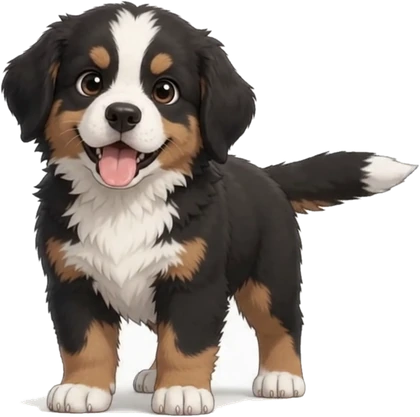
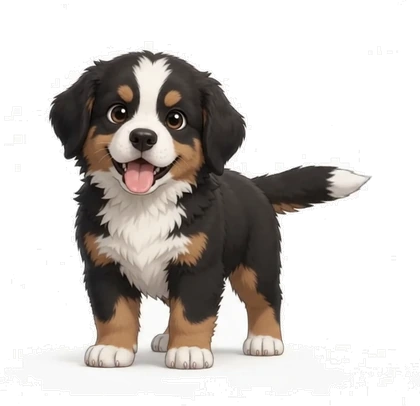
Use the new Bernese art in minigames without stretching.

diff --git a/bernese/index.html b/bernese/index.html
@@ -489,6 +489,10 @@ const IW=360,IH=360;
 const PUP_SHUT='anim/pup_shut.webp';
 const PC_PUP='anim/pc_pup.webp';
 const PC_PUP_IMG=new Image();PC_PUP_IMG.src=PC_PUP;
+function pupAR(img){const i=img||PUP_IMG;return (i&&i.naturalWidth&&i.naturalHeight)?i.naturalWidth/i.naturalHeight:IW/IH;}
+function pupWH(h,img){const ar=pupAR(img);return[h*ar,h];}
+function pupFeet(c,img,cx,by,h,o){const[w]=pupWH(h,img);pupDraw(c,img,cx-w/2,by-h,w,h,o);}
+function pupMid(c,img,cx,cy,h,o){const[w]=pupWH(h,img);pupDraw(c,img,cx-w/2,cy-h/2,w,h,o);}
 function dogSVG(stage,mood='neutral'){
   
   const H=210,W=H*IW/IH,x=(200-W)/2,y=0;
@@ -518,7 +522,7 @@ function walkFrame(moving){
 function drawSideDog(x,gy,K,face,frame,jy=0){
   const im=WALK_FRAMES[((frame%WALK_FRAMES.length)+WALK_FRAMES.length)%WALK_FRAMES.length];
   const ready=im&&im.complete&&im.naturalWidth;
-  const dw=(ready?96:62)*K, dh=ready?dw*(im.naturalHeight/im.naturalWidth):84*K;
+  const dw=(ready?96:72)*K, dh=ready?dw*(im.naturalHeight/im.naturalWidth):dw/pupAR(G&&G.img);
   ctx.save();
   ctx.translate(x, gy+jy);
   // sprites face left; face>0 means walking right → flip
@@ -829,14 +833,15 @@ function draw(){
       else emoji(it.t==='sun'?'☀':'🦴',it.x,it.y,34);
     });
     if(G.img.complete&&!(G.inv>0&&Math.floor(G.t*12)%2)){
-      ctx.save();ctx.translate(d.x,d.y);ctx.rotate(clamp(d.vy/1100,-.35,.45));pupDraw(ctx,G.img,-31,-44,62,84);ctx.restore();
+      const[pw,ph]=pupWH(72,G.img);
+      ctx.save();ctx.translate(d.x,d.y);ctx.rotate(clamp(d.vy/1100,-.35,.45));pupDraw(ctx,G.img,-pw/2,-ph/2,pw,ph);ctx.restore();
     }
   }else{
     ctx.fillStyle=getComputedStyle(document.body).backgroundColor;ctx.fillRect(0,0,W,H);
     ctx.fillStyle='#adc0b9';[[.12,.1,9],[.8,.18,6],[.45,.32,11],[.2,.55,6],[.88,.6,10],[.6,.78,7]].forEach(([px,py,r])=>{const x=px*W,y=py*H;ctx.beginPath();ctx.moveTo(x,y-r);ctx.quadraticCurveTo(x+r*.12,y-r*.12,x+r,y);ctx.quadraticCurveTo(x+r*.12,y+r*.12,x,y+r);ctx.quadraticCurveTo(x-r*.12,y+r*.12,x-r,y);ctx.quadraticCurveTo(x-r*.12,y-r*.12,x,y-r);ctx.fill();});
     ctx.fillStyle='#f2faf6';ctx.fillRect(0,H-22,W,22);
     G.items.forEach(it=>emoji(it.t,it.x,it.y,34));
-    if(G.img.complete){pupDraw(ctx,G.img,d.x-40,d.y-66,80,108);}
+    if(G.img.complete)pupFeet(ctx,G.img,d.x,d.y+8,96);
   }
   G.fx.forEach(f=>{ctx.globalAlpha=1-f.t/.8;ctx.font='bold 22px -apple-system,"PingFang SC",sans-serif';ctx.fillStyle='#df63a0';ctx.textAlign='center';ctx.fillText(f.s,f.x,f.y-f.t*50);ctx.globalAlpha=1;});
 }
@@ -951,7 +956,7 @@ function drawCart(){
     ctx.fillStyle='#c98a5a';ctx.strokeStyle='#8a5a35';ctx.lineWidth=2;ctx.beginPath();ctx.roundRect(d.x-34,cy-24,68,46,8);ctx.fill();ctx.stroke();
     ctx.strokeStyle='rgba(138,90,53,.45)';ctx.beginPath();ctx.moveTo(d.x-34,cy-1);ctx.lineTo(d.x+34,cy-1);ctx.stroke();
     const n=Math.min(G.load,6);for(let i=0;i<n;i++)emoji(i%2?'🥛':'🧀',d.x-20+(i%3)*20,cy-10+Math.floor(i/3)*20,17);
-    if(G.img.complete){pupDraw(ctx,G.img,d.x-31,d.y-42+bob,62,84);}
+    if(G.img.complete)pupFeet(ctx,G.img,d.x,d.y+8+bob,78);
   }
 }
 
@@ -1129,7 +1134,7 @@ function canvasXY(e){const r=cv.getBoundingClientRect();return[e.clientX-r.left,
   const m=G&&!G.over&&MODES[G.type],fn=m&&m[{pointerdown:'down',pointermove:'move',pointerup:'up'}[t]];
   if(fn)fn.call(m,e,...canvasXY(e));
 }));
-function drawDog(x,y,K,rot=0,alpha=1){if(!G.img.complete)return;ctx.save();ctx.globalAlpha=alpha;ctx.translate(x,y);if(rot)ctx.rotate(rot);pupDraw(ctx,G.img,-31*K,-42*K,62*K,84*K);ctx.restore();}
+function drawDog(x,y,K,rot=0,alpha=1){if(!G.img.complete)return;const[pw,ph]=pupWH(72*K,G.img);ctx.save();ctx.globalAlpha=alpha;ctx.translate(x,y);if(rot)ctx.rotate(rot);pupDraw(ctx,G.img,-pw/2,-ph/2,pw,ph);ctx.restore();}
 
 /* 雪地打滚 */
 MODES.snow={
@@ -1407,8 +1412,8 @@ MODES.match={
     const {W,H,cs,bx,by,C,R}=G;
     ctx.fillStyle='#c4dbd4';ctx.fillRect(0,0,W,H);
     ctx.fillStyle='#adc0b9';[[.1,.08,7],[.86,.14,9],[.62,.04,5],[.3,.2,5]].forEach(([px,py,r])=>{const x=px*W,y=py*H;ctx.beginPath();ctx.moveTo(x,y-r);ctx.quadraticCurveTo(x,y,x+r,y);ctx.quadraticCurveTo(x,y,x,y+r);ctx.quadraticCurveTo(x,y,x-r,y);ctx.quadraticCurveTo(x,y,x,y-r);ctx.fill();});
-    const dh=clamp(by-28,60,130),dw=dh*62/84,hop=G.bounce?Math.sin((.6-G.bounce)/.6*Math.PI*2)*-12:0;
-    if(G.img.complete){ctx.fillStyle='rgba(0,0,0,.1)';ctx.beginPath();ctx.ellipse(W*.32,by-14,dw*.42,5,0,0,7);ctx.fill();pupDraw(ctx,G.img,W*.32-dw/2,by-14-dh+hop,dw,dh);}
+    const dh=clamp(by-28,60,130),[dw]=pupWH(dh,G.img),hop=G.bounce?Math.sin((.6-G.bounce)/.6*Math.PI*2)*-12:0;
+    if(G.img.complete){ctx.fillStyle='rgba(0,0,0,.1)';ctx.beginPath();ctx.ellipse(W*.32,by-14,dw*.42,5,0,0,7);ctx.fill();pupFeet(ctx,G.img,W*.32,by-14+hop,dh);}
     if(G.talkT>0){ctx.globalAlpha=Math.min(1,G.talkT*3);ctx.font='bold 14px -apple-system,"PingFang SC",sans-serif';const tw=Math.min(W*.5,ctx.measureText(G.talk).width+24),tx=W*.32+dw/2+8,ty=by-14-dh*.75;
       ctx.fillStyle='#f2faf6';ctx.strokeStyle='#bbe0cf';ctx.lineWidth=2;ctx.beginPath();ctx.roundRect(tx,ty,tw,32,14);ctx.fill();ctx.stroke();ctx.fillStyle='#2c2c2c';ctx.textAlign='left';ctx.textBaseline='middle';ctx.fillText(G.talk,tx+12,ty+16,tw-20);ctx.globalAlpha=1;}
     ctx.fillStyle='#fff';ctx.beginPath();ctx.roundRect(bx-8,by-8,cs*C+16,cs*R+16,22);ctx.fill();
@@ -1420,7 +1425,7 @@ MODES.match={
       const sc=x0.sc*(sel?1.08+Math.sin(G.t*8)*.04:1);
       if(sel){ctx.strokeStyle='#de64a1';ctx.lineWidth=3;ctx.beginPath();ctx.roundRect(bx+c*cs+3,by+r*cs+3,cs-6,cs-6,10);ctx.stroke();}
       if(x0.t===-1){const gr=ctx.createRadialGradient(x,y,0,x,y,cs*.55);gr.addColorStop(0,'rgba(222,100,161,.35)');gr.addColorStop(1,'rgba(222,100,161,0)');ctx.fillStyle=gr;ctx.beginPath();ctx.arc(x,y,cs*.55,0,7);ctx.fill();
-        if(G.img.complete){const h=cs*.82*sc,w=h*62/84;pupDraw(ctx,G.img,x-w/2,y-h/2,w,h);}}
+        if(G.img.complete)pupMid(ctx,G.img,x,y,cs*.82*sc);}
       else if(sc>0)emoji(MPIECES[x0.t],x,y,cs*.6*sc);
     }
     ctx.restore();
@@ -1456,7 +1461,7 @@ MODES.simon={
     ctx.fillStyle='#c4dbd4';ctx.fillRect(0,0,W,H);
     ctx.fillStyle='#fff';ctx.beginPath();ctx.roundRect(14,12,W-28,H*.52,24);ctx.fill();
     ctx.fillStyle='#f2faf6';ctx.fillRect(14,12+H*.52*.78,W-28,H*.52*.22);
-    const dh=Math.min(H*.36,(W-60)*526/389*.7),dw=dh*389/526,bx=W/2,by=12+H*.52*.86;
+    const ar=pupAR(PUP_IMG),dh=Math.min(H*.36,(W-60)/ar*.7),dw=dh*ar,bx=W/2,by=12+H*.52*.86;
     let sx=1,sy=1,rot=0,oy=0,img=PUP_IMG;
     if(G.act){const p=Math.sin(Math.PI*Math.min(1,G.act.t/.6)),k=G.act.k;
       if(k===0){sy=1-.1*p;sx=1+.04*p;}
@@ -1485,26 +1490,26 @@ const DRESS={
   neck:{n:'胸前',items:['','🎀','🌸','🌼','🌹','🌻','🌷','💐','🧣','🏅']},
   bg:{n:'背景',items:['mint','sakura','beach','snow','night']}
 };
-const SLOT={hat:[180,42,130],face:[180,118,145],neck:[180,230,95]};
-const ADJ={'🌼hat':[230,48,78],'🪷hat':[180,28,100],'🌺hat':[130,48,88],'🍀hat':[235,45,72],'☘hat':[128,48,72],'🥽face':[180,110,130],'🎀hat':[240,48,80],'🌸hat':[132,46,86],'🧢hat':[180,28,140],'🎩hat':[180,8,130],'👑hat':[180,18,115],'🎓hat':[180,16,130],'👒hat':[180,24,155],'🎀neck':[180,215,90],'💐neck':[180,235,90],'🧣neck':[180,222,105],'🏅neck':[180,218,95]};
+const SLOT={hat:[180,52,120],face:[180,128,135],neck:[180,208,95]};
+const ADJ={'🌼hat':[230,55,78],'🪷hat':[180,36,100],'🌺hat':[130,55,88],'🍀hat':[235,52,72],'☘hat':[128,55,72],'🥽face':[180,120,125],'🎀hat':[240,55,80],'🌸hat':[132,52,86],'🧢hat':[180,36,130],'🎩hat':[180,16,120],'👑hat':[180,26,110],'🎓hat':[180,24,120],'👒hat':[180,32,145],'🎀neck':[180,198,90],'💐neck':[180,215,90],'🧣neck':[180,205,100],'🏅neck':[180,200,95]};
 const BGS={mint:['#c4dbd4','#f2faf6','薄荷'],sakura:['#fbe3e8','#f2faf6','樱花'],beach:['#cfeee6','#f6e7cf','海边'],snow:['#e3edf1','#ffffff','雪地'],night:['#252542','#5a4086','星空']};
 const SLOTS_ORDER=['neck','face','hat'];
 const slotPos=(slot,e)=>ADJ[e+slot]||SLOT[slot];
 function outfitSVG(o,x0,y0,w,h){
   if(!o)return '';let s='';
   SLOTS_ORDER.forEach(sl=>{const e=o[sl];if(!e)return;const [x,y,z]=slotPos(sl,e);
-    const cx=(x0+x/389*w),cy=(y0+y/526*h),sz=(z/389*w),src=iconSrc(e,sl);
+    const cx=(x0+x/IW*w),cy=(y0+y/IH*h),sz=(z/IW*w),src=iconSrc(e,sl);
     if(src)s+=`<image href="${src}" x="${(cx-sz/2).toFixed(1)}" y="${(cy-sz/2).toFixed(1)}" width="${sz.toFixed(1)}" height="${sz.toFixed(1)}" preserveAspectRatio="xMidYMid meet"/>`;
     else s+=`<text x="${cx.toFixed(1)}" y="${cy.toFixed(1)}" font-size="${sz.toFixed(1)}" text-anchor="middle" dominant-baseline="central" style="font-family:'Apple Color Emoji','Segoe UI Emoji','Noto Color Emoji',sans-serif">${e}</text>`;});
   return s;
 }
-function drawOutfit(o,ix,iy,iw,ih){SLOTS_ORDER.forEach(sl=>{const e=o&&o[sl];if(!e)return;const [x,y,z]=slotPos(sl,e);const sz=z/389*iw;if(!drawIconOn(ctx,e,ix+x/389*iw,iy+y/526*ih,sz,sl))emoji(e,ix+x/389*iw,iy+y/526*ih,sz);});}
+function drawOutfit(o,ix,iy,iw,ih){SLOTS_ORDER.forEach(sl=>{const e=o&&o[sl];if(!e)return;const [x,y,z]=slotPos(sl,e);const sz=z/IW*iw;if(!drawIconOn(ctx,e,ix+x/IW*iw,iy+y/IH*ih,sz,sl))emoji(e,ix+x/IW*iw,iy+y/IH*ih,sz);});}
 function photoHTML(p,w){
-  const [c1,c2]=BGS[p.bg]||BGS.mint,h=w*1.25,ih=h*.86,iw=ih*389/526,l=(w-iw)/2,t=h-ih-4;
-  const sp=SLOTS_ORDER.map(sl=>{const e=p.o[sl];if(!e)return '';const [x,y,z]=slotPos(sl,e);const sz=(z/389*iw),src=iconSrc(e,sl);
-    if(src)return `<span class="ico-wrap" style="left:${(l+x/389*iw).toFixed(1)}px;top:${(t+y/526*ih).toFixed(1)}px;width:${sz.toFixed(1)}px;height:${sz.toFixed(1)}px"><img src="${src}" alt=""></span>`;
-    return `<span style="left:${(l+x/389*iw).toFixed(1)}px;top:${(t+y/526*ih).toFixed(1)}px;font-size:${sz.toFixed(1)}px">${e}</span>`;}).join('');
-  return `<div class="photo" style="width:${w}px;height:${h}px;background:linear-gradient(${c1},${c2})"><img src="${PUP}" alt="" style="left:${l}px;top:${t}px;width:${iw}px">${sp}</div>`;
+  const [c1,c2]=BGS[p.bg]||BGS.mint,h=w*1.25,ar=pupAR(PUP_IMG),ih=h*.86,iw=ih*ar,l=(w-iw)/2,t=h-ih-4;
+  const sp=SLOTS_ORDER.map(sl=>{const e=p.o[sl];if(!e)return '';const [x,y,z]=slotPos(sl,e);const sz=(z/IW*iw),src=iconSrc(e,sl);
+    if(src)return `<span class="ico-wrap" style="left:${(l+x/IW*iw).toFixed(1)}px;top:${(t+y/IH*ih).toFixed(1)}px;width:${sz.toFixed(1)}px;height:${sz.toFixed(1)}px"><img src="${src}" alt=""></span>`;
+    return `<span style="left:${(l+x/IW*iw).toFixed(1)}px;top:${(t+y/IH*ih).toFixed(1)}px;font-size:${sz.toFixed(1)}px">${e}</span>`;}).join('');
+  return `<div class="photo" style="width:${w}px;height:${h}px;background:linear-gradient(${c1},${c2})"><img src="${PUP}" alt="" style="left:${l}px;top:${t}px;width:${iw}px;height:${ih}px">${sp}</div>`;
 }
 MODES.dress={
   hint:'选一件试试看，再拍张照',mem:'',
@@ -1547,7 +1552,7 @@ MODES.dress={
     if(G.bg==='snow')[[.12,.15],[.85,.1],[.78,.42],[.18,.45]].forEach(([a,b])=>emoji('❄',a*W,b*ph,16));
     if(G.bg==='beach')[[.85,.12]].forEach(([a,b])=>emoji('☀',a*W,b*ph,26));
     ctx.fillStyle='#fff';ctx.fillRect(0,ph,W,H-ph);
-    const ih=Math.min(ph*.88,W*.62*526/389),iw=ih*389/526,ix=(W-iw)/2,iy=ph-ih-8;
+    const ar=pupAR(PUP_IMG),ih=Math.min(ph*.88,W*.72),iw=ih*ar,ix=(W-iw)/2,iy=ph-ih-8;
     ctx.fillStyle='rgba(0,0,0,.12)';ctx.beginPath();ctx.ellipse(W/2,ph-10,iw*.38,6,0,0,7);ctx.fill();
     ctx.save();ctx.translate(W/2,ph-8);ctx.rotate(G.wig?Math.sin(G.wig*28)*.05:0);ctx.translate(-W/2,-(ph-8));
     if(PUP_IMG.complete)ctx.drawImage(PUP_IMG,ix,iy,iw,ih);drawOutfit(G.o,ix,iy,iw,ih);ctx.restore();
@@ -1890,7 +1895,7 @@ function wallCard(i){
   $('cShare').onclick=()=>shareCard(cd);bindFlips();$('mOk').onclick=closeModalKeep;
 }
 
-function pupDraw(c,img,x,y,w,h,o){if(!img.complete){cE(c,'🐾',x+w/2,y+h*.6,w*.45);return;}c.drawImage(img,x,y,w,h);if(o===undefined)o=S&&S.outfit;if(!o)return;SLOTS_ORDER.forEach(sl=>{const e=o[sl];if(!e)return;const [px,py,z]=slotPos(sl,e);const sz=z/389*w;if(!drawIconOn(c,e,x+px/389*w,y+py/526*h,sz,sl))cE(c,e,x+px/389*w,y+py/526*h,sz);});}
+function pupDraw(c,img,x,y,w,h,o){if(!img.complete){cE(c,'🐾',x+w/2,y+h*.6,w*.45);return;}c.drawImage(img,x,y,w,h);if(o===undefined)o=S&&S.outfit;if(!o)return;SLOTS_ORDER.forEach(sl=>{const e=o[sl];if(!e)return;const [px,py,z]=slotPos(sl,e);const sz=z/IW*w;if(!drawIconOn(c,e,x+px/IW*w,y+py/IH*h,sz,sl))cE(c,e,x+px/IW*w,y+py/IH*h,sz);});}
 /* ---------- 进度：星级 / 骨头 / 每日任务 / 解锁 / 教学 / 设置 ---------- */
 const STARS={frisbee:[3,7,12],cart:[12,25,40],snow:[12,25,40],catch:[12,25,40],hide:[6,14,24],simon:[6,15,28],match:[50,100,160],fly:[8,18,30],walk:[1,2,3]};
 const starsFor=(t,v)=>STARS[t]?STARS[t].filter(x=>v>=x).length:0;
